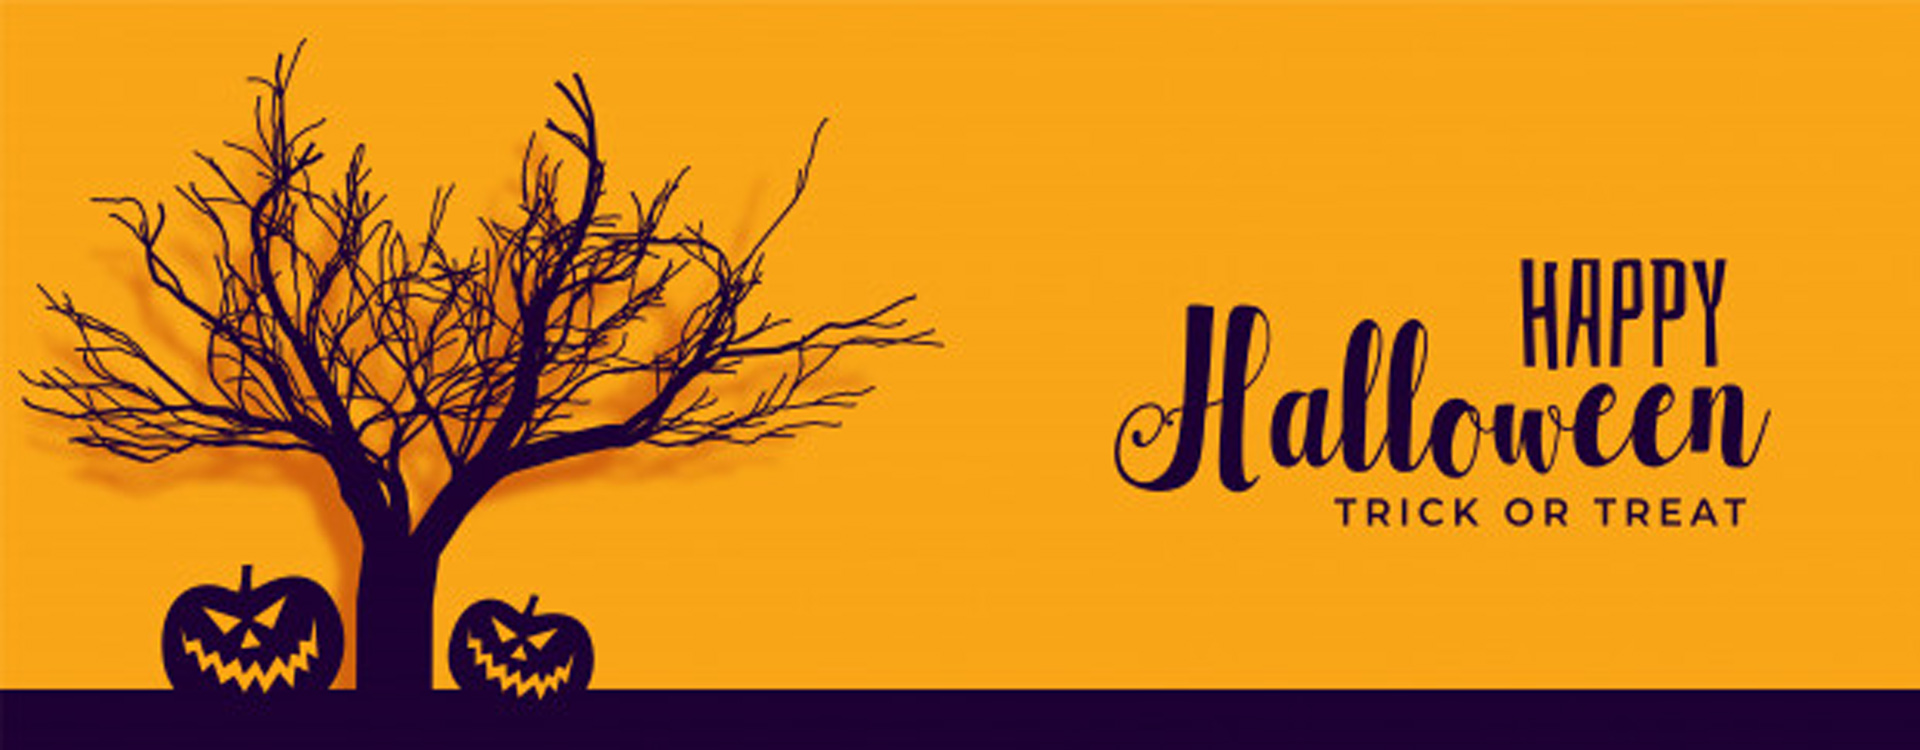
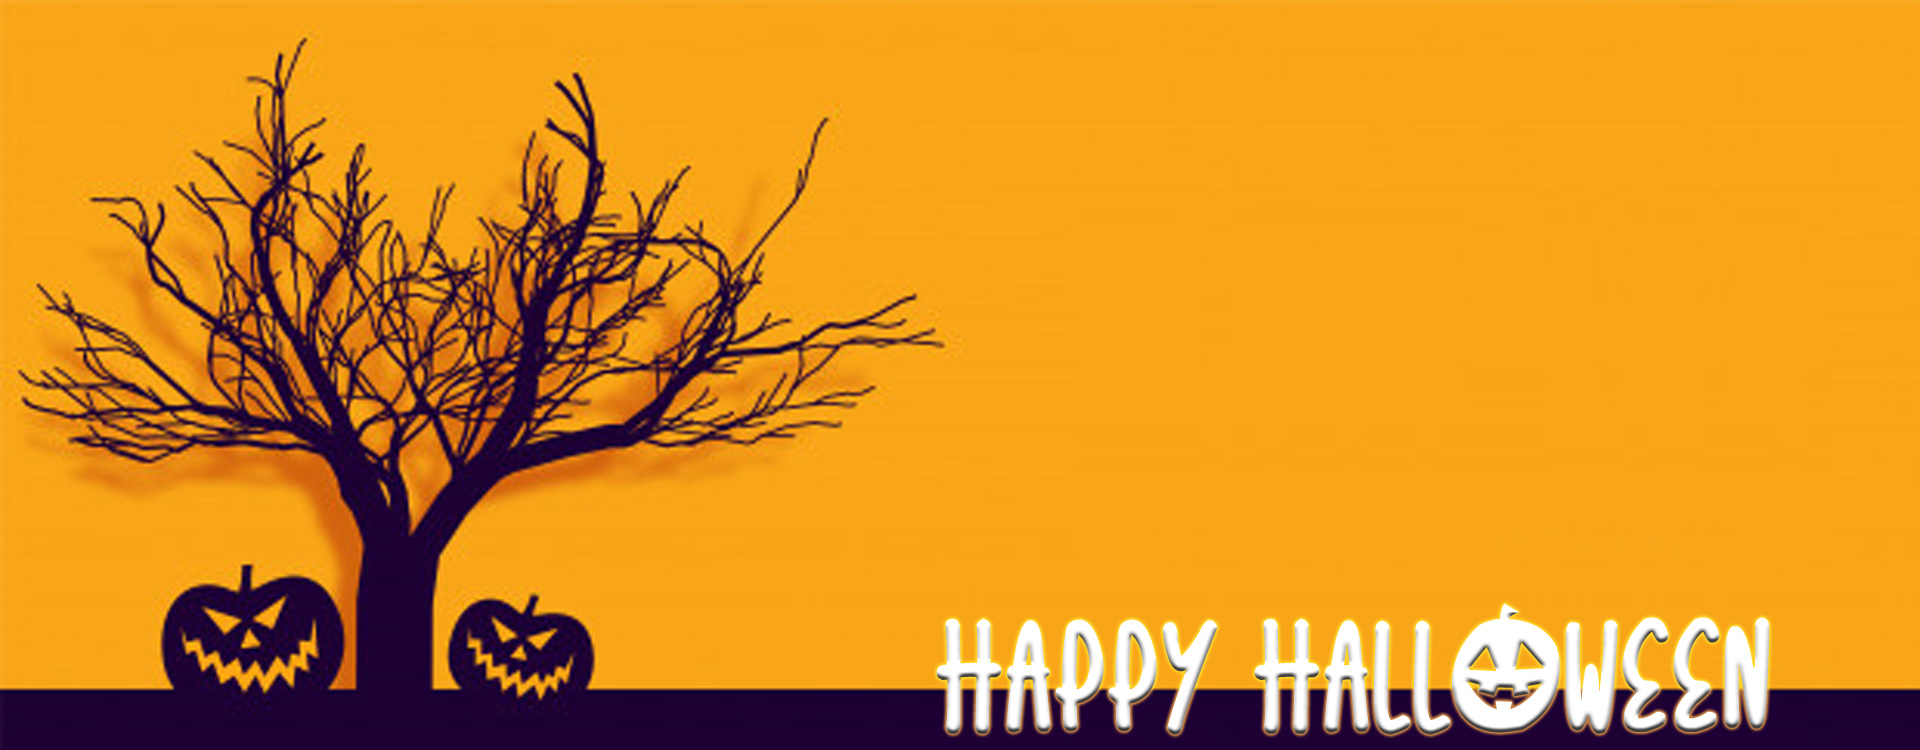
Add rotation column and border clolor column. Add rotation Function pythin
Added columns for rotation and border color in the db. Added functions to apply rotation to images with python. Also, Updated images with some text.

Changed region(s): [[0.5625, 0.3373, 0.9375, 0.7053], [0.4688, 0.7973, 0.9375, 0.9813]]

diff --git a/GoGoGnomes/imageUpload/views.py b/GoGoGnomes/imageUpload/views.py
@@ -53,8 +53,8 @@ def imageUpload(request):
             # Opens and formats user uploaded image using Pillow to be combined with sample background            
             foreground = Image.open(uploaded_image).convert("RGBA").resize((sample.resize_img_len, sample.resize_img_wid))
             
-            # Adds a styling border on the uploaded image
-            img_with_border = ImageOps.expand(foreground,border=10,fill='white')
+            # Adds a styling border on the uploaded image and rotates if necessary
+            img_with_border = ImageOps.expand(foreground,border=10,fill=sample.border_color).rotate(sample.rotation, expand=True)
             
             # Opens, formats, combines, and saves the background image combined with the user uploaded image
             background = Image.open(theImage).convert("RGBA")

diff --git a/GoGoGnomes/imageUpload/models.py b/GoGoGnomes/imageUpload/models.py
@@ -26,6 +26,8 @@ class Samplecards(models.Model):
     user_img_pos_y = models.IntegerField(blank=True, null=True)
     resize_img_len = models.IntegerField(blank=True, null=True)
     resize_img_wid = models.IntegerField(blank=True, null=True)
+    rotation = models.IntegerField(blank=True, null=True)
+    border_color = models.CharField(max_length=50)
     
     class Meta:
         managed = False
